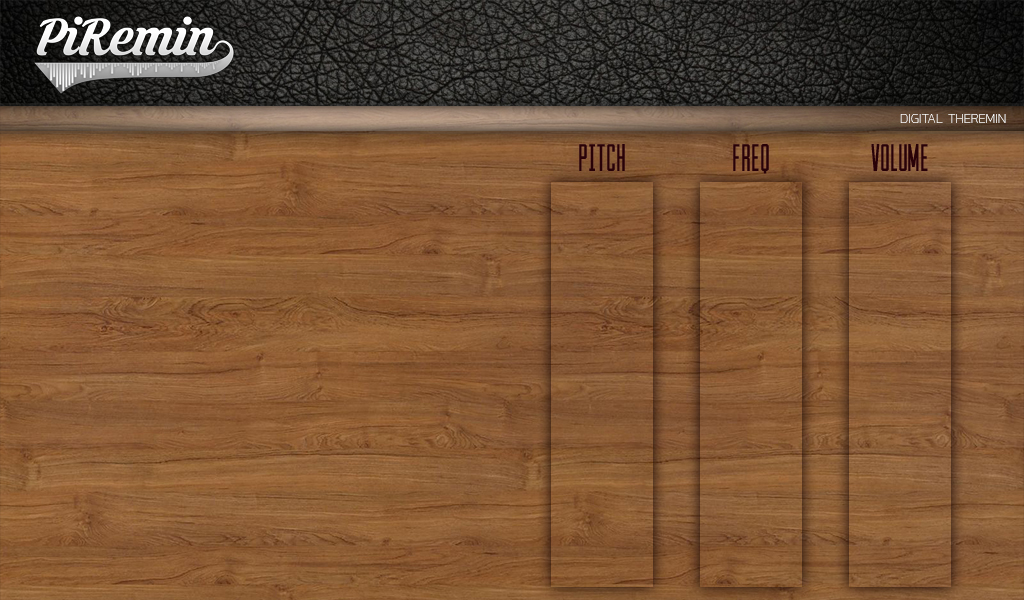
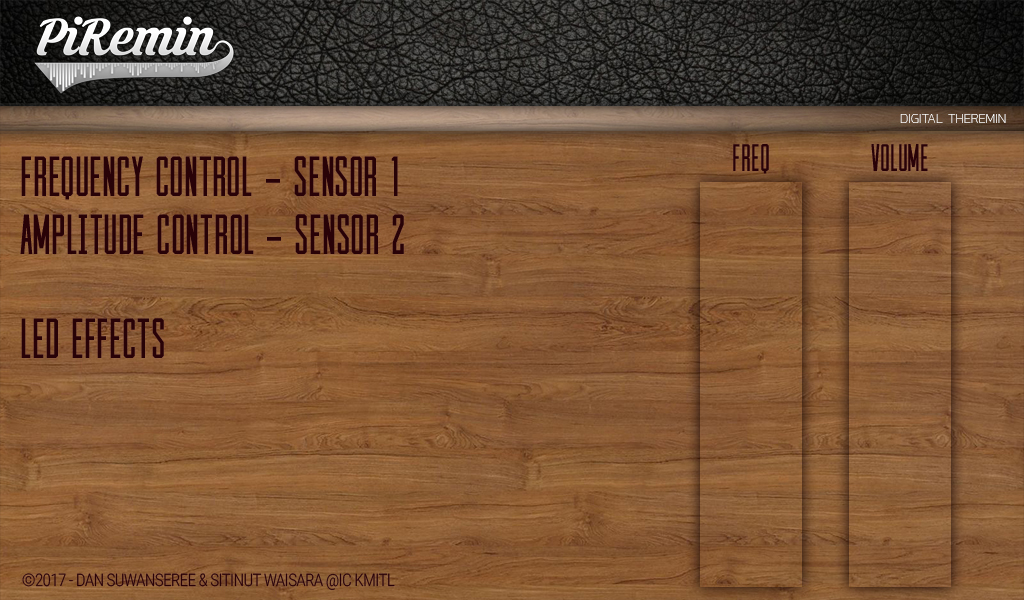
2 Sensors are working

diff --git a/mainApp_start.py b/mainApp_start.py
@@ -15,7 +15,6 @@ AMP_TRIG = 17
 AMP_ECHO = 27
 
 UPDATE_INTERVAL = 33
-LED_MODE = ["OFF","Rainbow","VU Meter"]
 
 class PiReminGUI(object):
     def __init__(self, master, **kwargs):
@@ -27,14 +26,12 @@ class PiReminGUI(object):
         master.bind("<F11>", self.toggle_fullscreen)
         master.bind("<Escape>", self.end_fullscreen)
         master.protocol("WM_DELETE_WINDOW", self.on_closing)
-        self.currentLEDmode = LED_MODE[0]
 
         self.init_element(master)
 
-        self.ledVisual = LEDVisualizer()
-        self.ledVisual.setDaemon(True)
-        self.ledVisual.start()
-
+        # self.ledVisual = LEDVisualizer()
+        # self.ledVisual.setDaemon(True)
+        # self.ledVisual.start()
 
         self.ultrasonicFreq = UltrasonicManager.Ultrasonic(FREQ_TRIG, FREQ_ECHO)
         self.ultrasonicFreq.start()
@@ -45,7 +42,7 @@ class PiReminGUI(object):
         self.soundManager.start()
 
     def on_closing(self):
-        self.ledVisual.end()
+        # self.ledVisual.end()
         self.soundManager.shutDownSystem()
         self.master.destroy()
 
@@ -105,17 +102,15 @@ class PiReminGUI(object):
         self.ultrasonicAmpVal = tk.Label(master, textvariable=self.AmpVal, font=("Courier", 32))
         self.ultrasonicAmpVal.place(x=420, y=210)
 
-        self.ledMode_button = tk.Button(master, text="OFF", command=self.setLight, font=("Courier", 32))
-        self.ledMode_button.place(x=28, y=375)
+        self.screenMode_button = tk.Button(master, text="LED", command=self.setLight, font=("Courier", 32))
+        self.screenMode_button.place(x=30, y=290)
 
         self.master.after(UPDATE_INTERVAL, self.update)
         print("Done init GUI")
 
 
     def setLight(self):
-        print(self.currentLEDmode)
         self.ledVisual.changeMode()
-        self.ledMode_button["text"] = LED_MODE[self.ledVisual.mode]
 
 
     def update(self):
@@ -132,8 +127,8 @@ class PiReminGUI(object):
         self.FreqVal.set(format(format(ultrasonicFreqRange, '.2f'),">6s"))
         self.AmpVal.set(format(format(ultrasonicAmpRange, '.2f'), ">6s"))
 
-        self.ledVisual.receiveUltrasonicValue(ultrasonicFreqRange)
-        self.ledVisual.updateBrightness()
+        # self.ledVisual.receiveUltrasonicValue(ultrasonicFreqRange)
+        # self.ledVisual.updateBrightness()
 
         freq = ultrasonicFreqRange * 100 + self.freq_slider.get()
         vol = (ultrasonicAmpRange + self.amp_slider.get() / 100) / 50.0

diff --git a/LEDVisualizer.py b/LEDVisualizer.py
@@ -63,7 +63,7 @@ class LEDVisualizer(threading.Thread):
         rawVal + 2
         if rawVal < 2:
             rawVal = 0
-        if rawVal > 40:
+        if rawVal > 50:
             rawVal = 0
         inputLowVal = 0
         inputHighVal = 40
